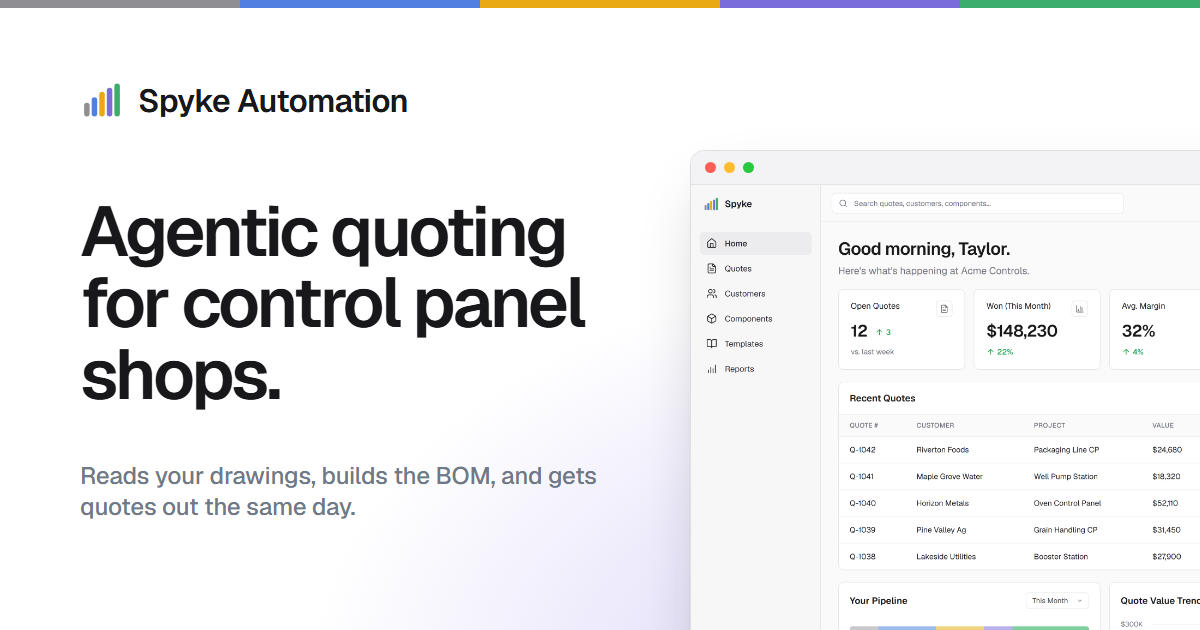
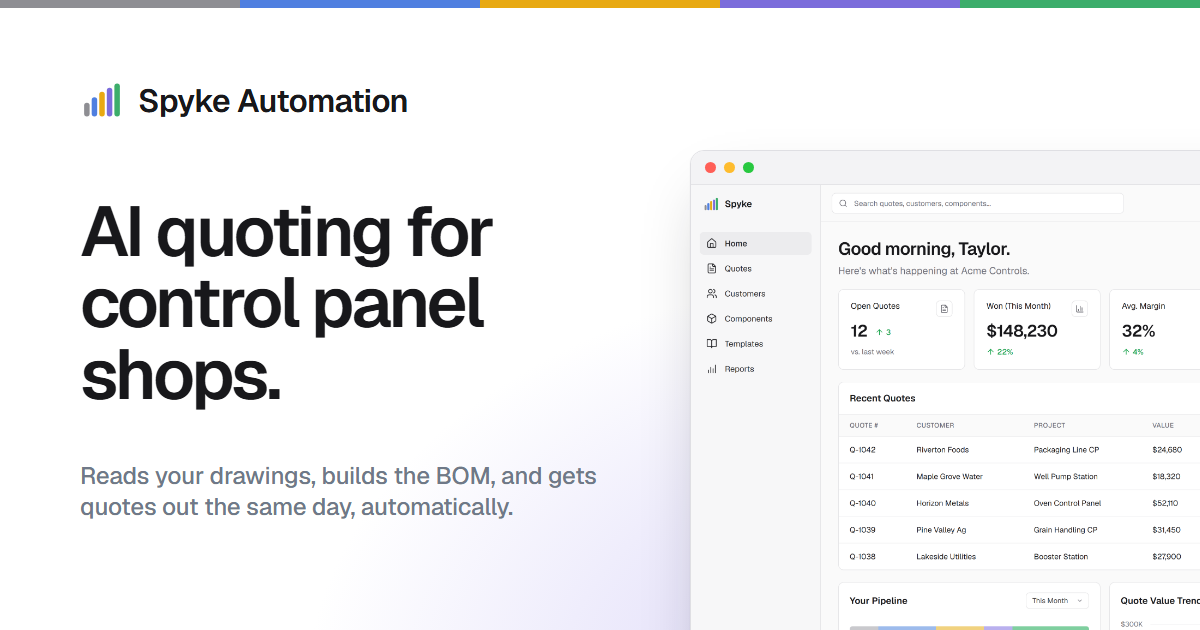
Say AI quoting in the hero and who builds Spyke in the trust line
The headline is now "AI quoting for control panel shops.", centred like
the rest of the opening, and the line under it ends "automatically". The
tab title, the description and the share card say the same. The line
under the picture now reads "Built by controls engineers and trusted by
leading panel shops."

Claude-Session: https://claude.ai/code/session_01MMzaMSrEiU4KPA8Fm92Hy1

Changed region(s): [[0.0617, 0.3317, 0.4933, 0.5429], [0.3083, 0.7841, 0.4317, 0.8143]]

diff --git a/src/styles/global.css b/src/styles/global.css
@@ -129,6 +129,7 @@ a.btn.dark:hover { background: var(--primary-hover); border-color: var(--primary
 
 /* ===== HERO ===== */
 .hero { display: grid; grid-template-columns: minmax(0, 1fr); gap: 120px; padding-block: 140px 96px; }
+.hero .h1 { text-align: center; }
 .hero .lead { max-width: 30em; margin: 36px auto 0; font-size: 18px; font-weight: 500; line-height: 1.3; letter-spacing: -0.01em; color: #6f7988; text-align: center; text-wrap: balance; }
 .hero .actions { justify-content: center; margin-top: 40px; }
 
